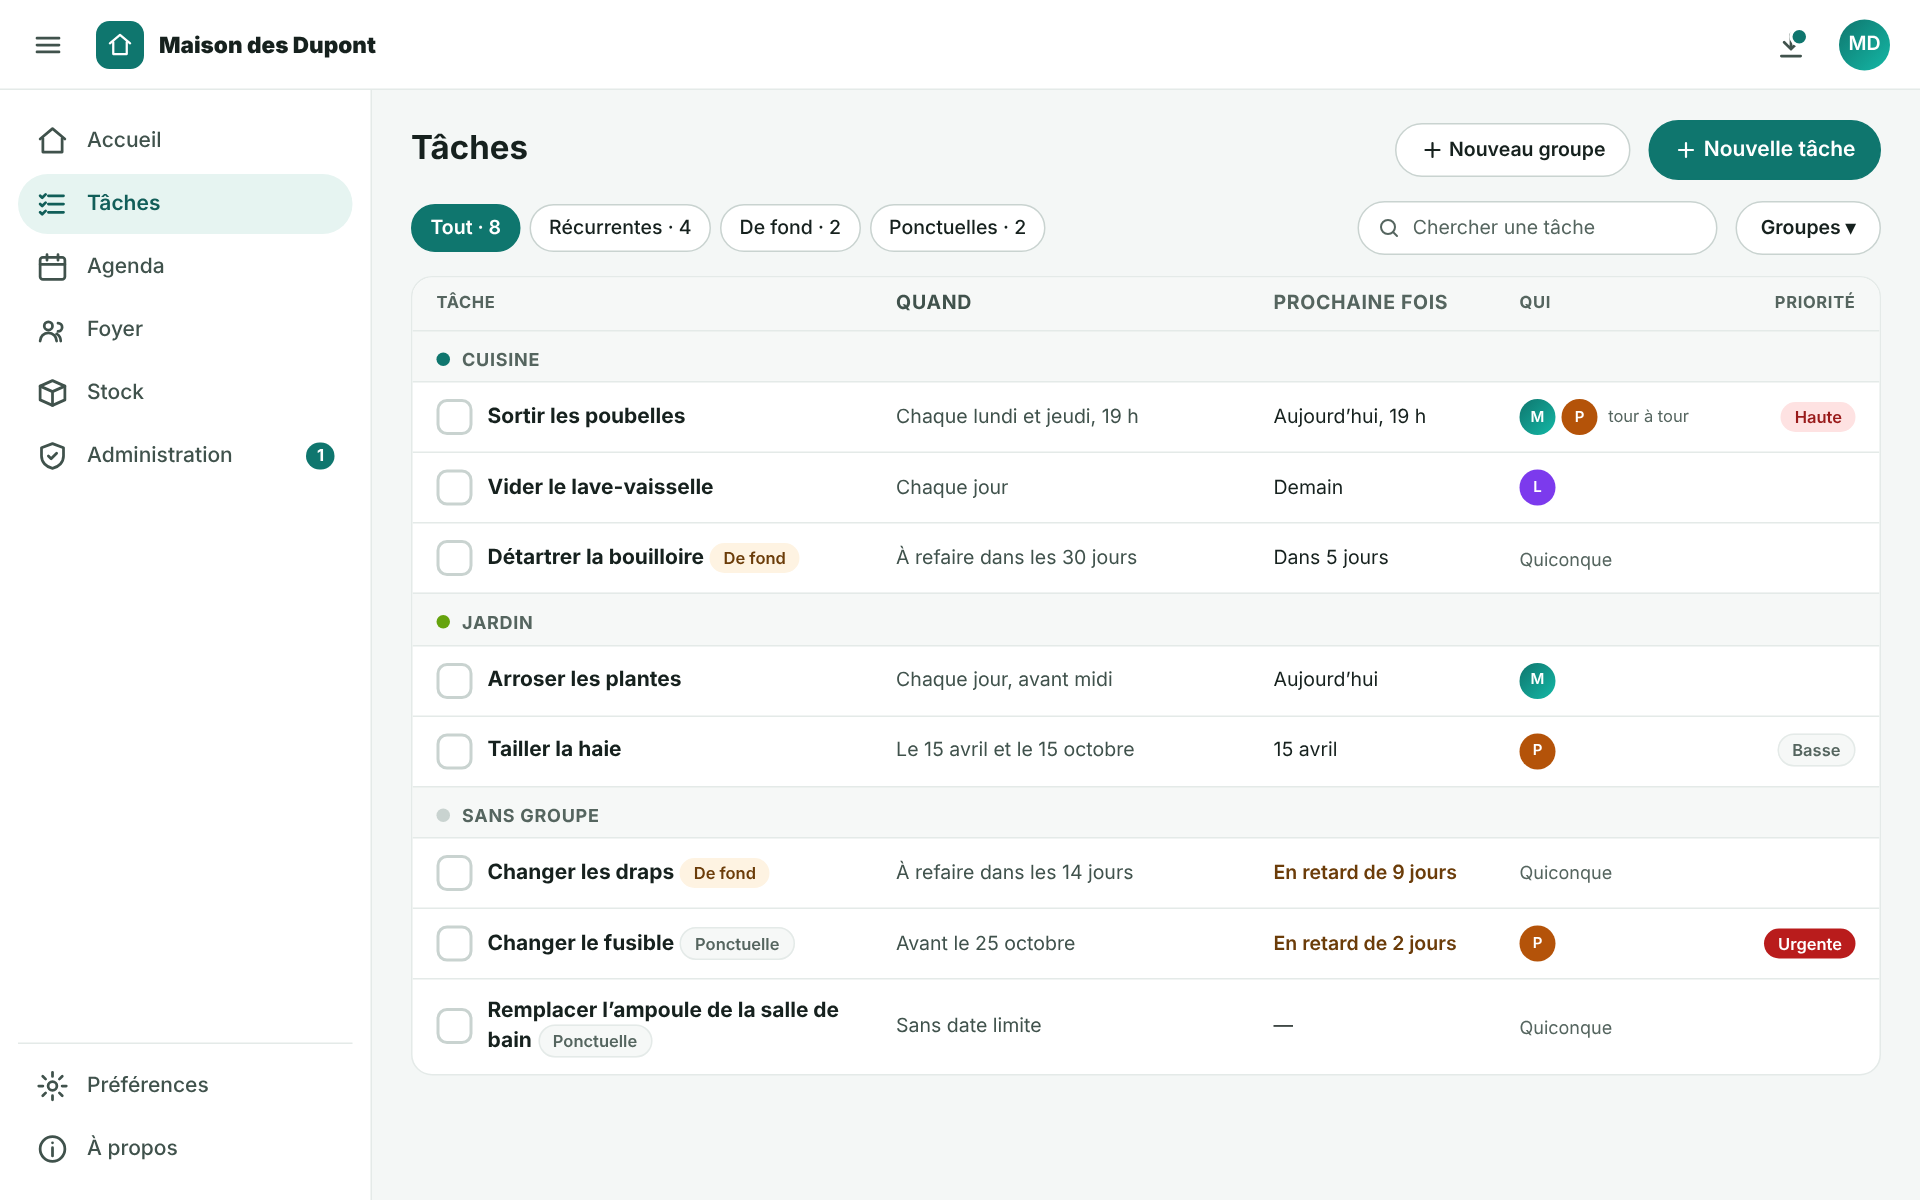
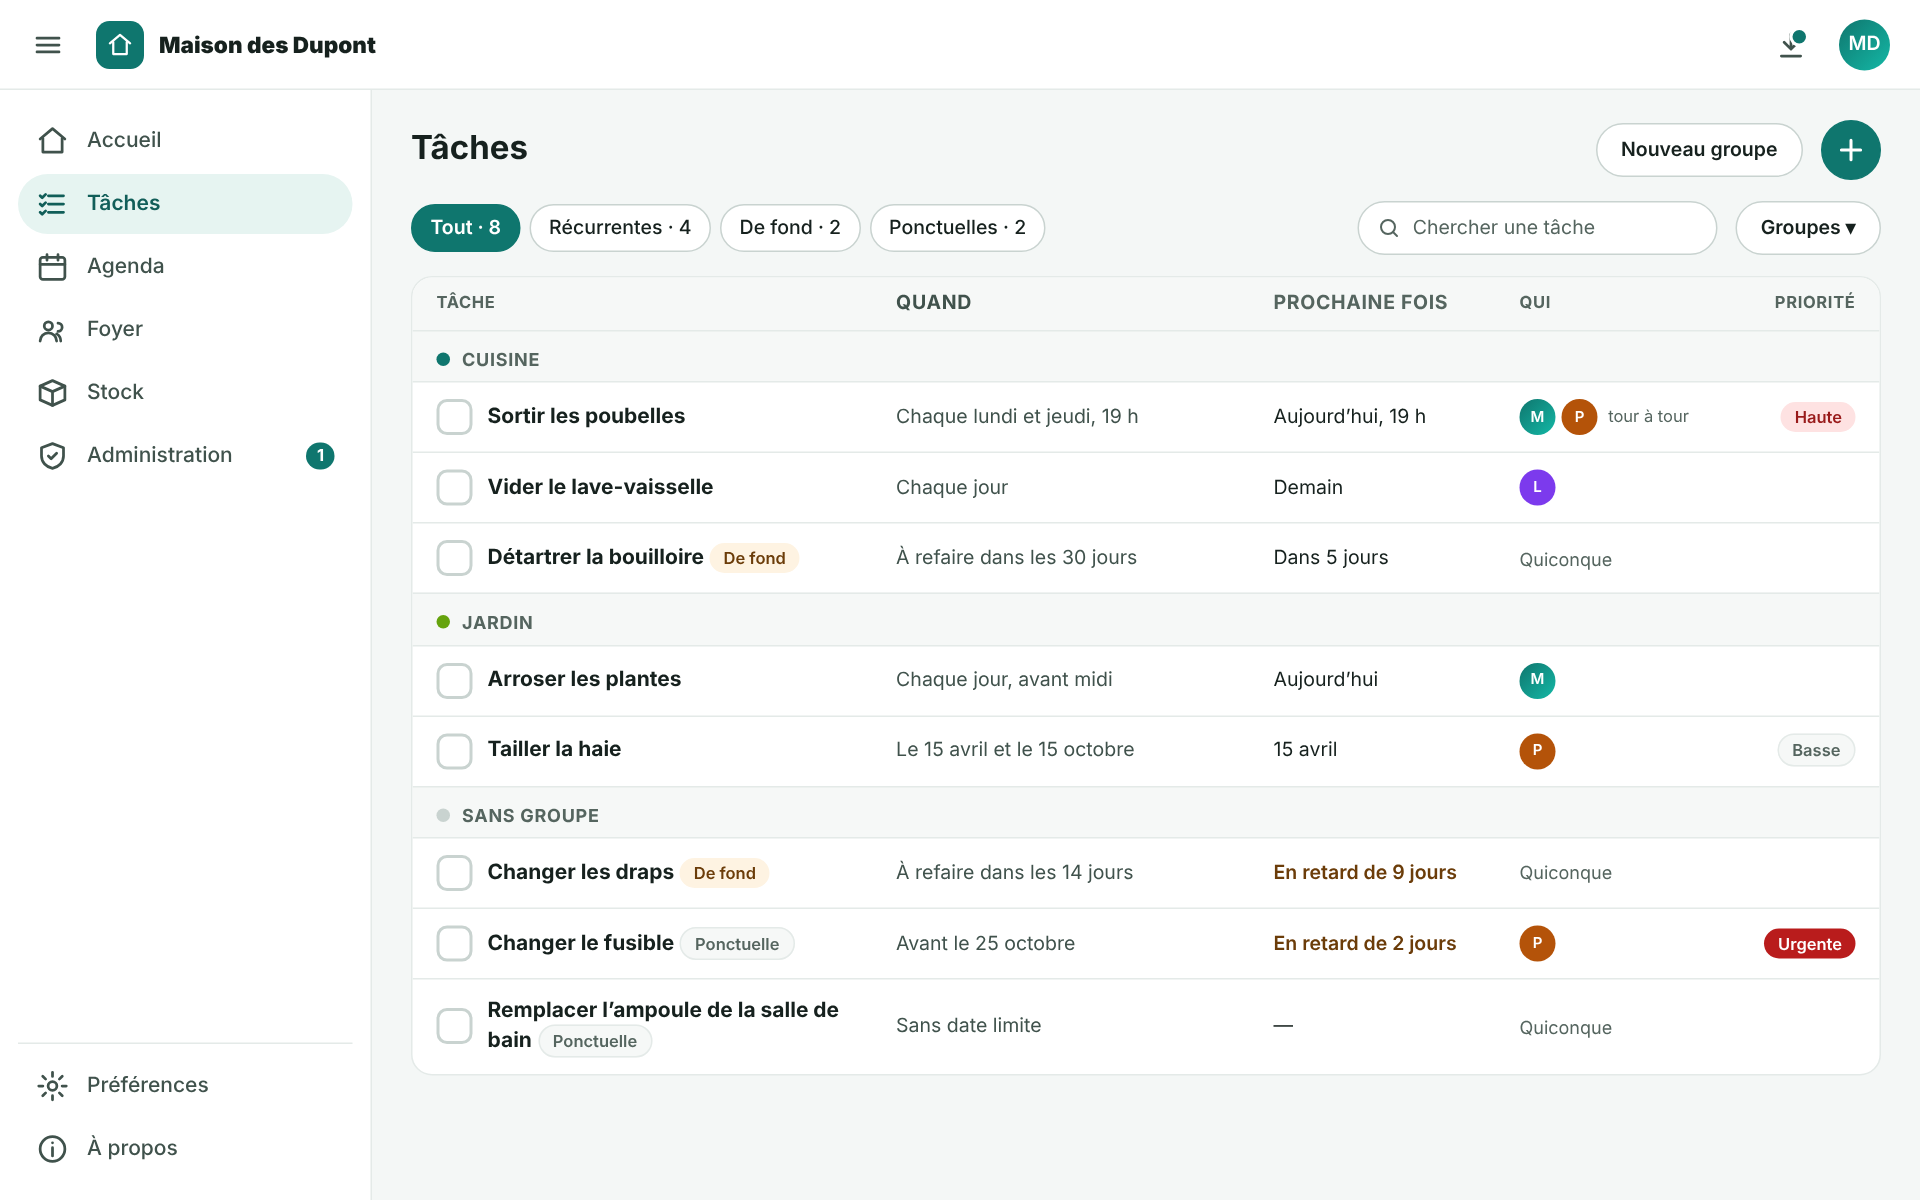
Web : l'ajout est un « + » seul, en tête de page, jamais dans la barre
Un bouton rond « + » sans texte, un par page ; son nom (« Nouvelle
tâche »…) reste dans l'info-bulle et pour les lecteurs d'écran.
« Nouveau statut » passe lui aussi au « + », et « Nouveau groupe »
perd son icône pour qu'il n'y ait qu'un « + » sur la page Tâches.

Claude-Session: https://claude.ai/code/session_01CwM8UZavZyFdh7jkANxEp5

Changed region(s): [[0.75, 0.0925, 0.9688, 0.1542]]

diff --git a/docs/mockups/cadre/38-ajouter-dans-la-page.html b/docs/mockups/cadre/38-ajouter-dans-la-page.html
@@ -12,5 +12,5 @@
   <a class=" point" href="#"><svg viewBox="0 0 24 24" width="22" height="22" fill="none" stroke="currentColor" stroke-width="2" stroke-linecap="round" stroke-linejoin="round"><path d="M12 3 4 6v6c0 4.5 3.4 8 8 9 4.6-1 8-4.5 8-9V6z"/><path d="m9 12 2 2 4-4"/></svg><span>Administration</span><span class="pastille">1</span></a>
   <div class="bas"><a class=" " href="#"><svg viewBox="0 0 24 24" width="22" height="22" fill="none" stroke="currentColor" stroke-width="2" stroke-linecap="round" stroke-linejoin="round"><circle cx="12" cy="12" r="3.2"/><path d="M12 2v3M12 19v3M2 12h3M19 12h3M4.9 4.9l2.1 2.1M17 17l2.1 2.1M4.9 19.1 7 17M17 7l2.1-2.1"/></svg><span>Préférences</span></a><a class=" " href="#"><svg viewBox="0 0 24 24" width="22" height="22" fill="none" stroke="currentColor" stroke-width="2" stroke-linecap="round" stroke-linejoin="round"><circle cx="12" cy="12" r="9"/><path d="M12 11v6M12 7.5h.01"/></svg><span>À propos</span></a></div>
   
-</nav><div class="principal"><main class="contenu" style="gap:14px;padding:20px 26px"><!-- Variante A : plus de bouton « Ajouter » dans la barre du haut. Chaque page a son bouton, à droite de ses filtres, et il dit ce qu'il crée : « Nouvelle tâche » ici, « Nouveau rendez-vous » dans l'Agenda, « Nouvel article » dans le Stock. L'Accueil garde « Ajouter », qui propose tâche ou rendez-vous. --><div class="ligne" style="align-items:center"><h1 style="flex:1;font-size:22px;margin:0">Tâches</h1><span class="bouton"><svg viewBox="0 0 24 24" width="16" height="16" fill="none" stroke="currentColor" stroke-width="2.2" stroke-linecap="round"><path d="M12 5v14M5 12h14"/></svg>&nbsp;Nouveau groupe</span><span class="bouton primaire" style="height:40px;font-size:14px"><svg viewBox="0 0 24 24" width="16" height="16" fill="none" stroke="currentColor" stroke-width="2.2" stroke-linecap="round"><path d="M12 5v14M5 12h14"/></svg>&nbsp;Nouvelle tâche</span></div><div class="ligne"><div class="filtres" style="flex:1"><span class="actif">Tout · 8</span><span>Récurrentes · 4</span><span>De fond · 2</span><span>Ponctuelles · 2</span></div><span class="recherche"><svg viewBox="0 0 24 24" width="16" height="16" fill="none" stroke="currentColor" stroke-width="2" stroke-linecap="round" stroke-linejoin="round"><circle cx="11" cy="11" r="7"/><path d="m20 20-4-4"/></svg>Chercher une tâche</span><span class="bouton">Groupes ▾</span></div><div class="tableau"><div class="rang titres"><div class="c-nom" style="flex:1.6">Tâche</div><div class="c-quand">Quand</div><div class="c-prochaine">Prochaine fois</div><div class="c-qui">Qui</div><div class="c-prio">Priorité</div></div><div class="titre-groupe"><i style="background:#0F766E"></i>Cuisine</div><div class="rang"><div class="c-nom" style="flex:1.6"><div class="case"></div><div style="min-width:0"><b>Sortir les poubelles</b> </div></div><div class="c-quand">Chaque lundi et jeudi, 19 h</div><div class="c-prochaine" style="">Aujourd’hui, 19 h</div><div class="c-qui"><span class="photo" style="width:24px;height:24px;font-size:10px;background:linear-gradient(135deg,#0f766e,#14b8a6)">M</span><span class="photo" style="width:24px;height:24px;font-size:10px;background:#B45309">P</span><span class="rotation">&nbsp;tour à tour</span></div><div class="c-prio"><span class="etiquette haute">Haute</span></div></div><div class="rang"><div class="c-nom" style="flex:1.6"><div class="case"></div><div style="min-width:0"><b>Vider le lave-vaisselle</b> </div></div><div class="c-quand">Chaque jour</div><div class="c-prochaine" style="">Demain</div><div class="c-qui"><span class="photo" style="width:24px;height:24px;font-size:10px;background:#7C3AED">L</span></div><div class="c-prio"></div></div><div class="rang"><div class="c-nom" style="flex:1.6"><div class="case"></div><div style="min-width:0"><b>Détartrer la bouilloire</b> <span class="etiquette fond">De fond</span></div></div><div class="c-quand">À refaire dans les 30 jours</div><div class="c-prochaine" style="">Dans 5 jours</div><div class="c-qui"><span class="muet">Quiconque</span></div><div class="c-prio"></div></div><div class="titre-groupe"><i style="background:#65A30D"></i>Jardin</div><div class="rang"><div class="c-nom" style="flex:1.6"><div class="case"></div><div style="min-width:0"><b>Arroser les plantes</b> </div></div><div class="c-quand">Chaque jour, avant midi</div><div class="c-prochaine" style="">Aujourd’hui</div><div class="c-qui"><span class="photo" style="width:24px;height:24px;font-size:10px;background:linear-gradient(135deg,#0f766e,#14b8a6)">M</span></div><div class="c-prio"></div></div><div class="rang"><div class="c-nom" style="flex:1.6"><div class="case"></div><div style="min-width:0"><b>Tailler la haie</b> </div></div><div class="c-quand">Le 15 avril et le 15 octobre</div><div class="c-prochaine" style="">15 avril</div><div class="c-qui"><span class="photo" style="width:24px;height:24px;font-size:10px;background:#B45309">P</span></div><div class="c-prio"><span class="etiquette basse">Basse</span></div></div><div class="titre-groupe"><i style="background:#c9d3d0"></i>Sans groupe</div><div class="rang"><div class="c-nom" style="flex:1.6"><div class="case"></div><div style="min-width:0"><b>Changer les draps</b> <span class="etiquette fond">De fond</span></div></div><div class="c-quand">À refaire dans les 14 jours</div><div class="c-prochaine alerte" style="font-weight:600">En retard de 9 jours</div><div class="c-qui"><span class="muet">Quiconque</span></div><div class="c-prio"></div></div><div class="rang"><div class="c-nom" style="flex:1.6"><div class="case"></div><div style="min-width:0"><b>Changer le fusible</b> <span class="etiquette neutre">Ponctuelle</span></div></div><div class="c-quand">Avant le 25 octobre</div><div class="c-prochaine alerte" style="font-weight:600">En retard de 2 jours</div><div class="c-qui"><span class="photo" style="width:24px;height:24px;font-size:10px;background:#B45309">P</span></div><div class="c-prio"><span class="etiquette urgente">Urgente</span></div></div><div class="rang"><div class="c-nom" style="flex:1.6"><div class="case"></div><div style="min-width:0"><b>Remplacer l’ampoule de la salle de bain</b> <span class="etiquette neutre">Ponctuelle</span></div></div><div class="c-quand">Sans date limite</div><div class="c-prochaine" style="">—</div><div class="c-qui"><span class="muet">Quiconque</span></div><div class="c-prio"></div></div></div></main></div></div>
+</nav><div class="principal"><main class="contenu" style="gap:14px;padding:20px 26px"><!-- Variante A : plus de bouton « Ajouter » dans la barre du haut. Chaque page a son « + », un seul, à côté de son titre ; son nom (« Nouvelle tâche ») n'est que dans l'info-bulle. --><div class="ligne" style="align-items:center"><h1 style="flex:1;font-size:22px;margin:0">Tâches</h1><span class="bouton">Nouveau groupe</span><span class="bouton primaire" title="Nouvelle tâche" style="width:40px;height:40px;padding:0;border-radius:50%"><svg viewBox="0 0 24 24" width="22" height="22" fill="none" stroke="currentColor" stroke-width="2.2" stroke-linecap="round"><path d="M12 5v14M5 12h14"/></svg></span></div><div class="ligne"><div class="filtres" style="flex:1"><span class="actif">Tout · 8</span><span>Récurrentes · 4</span><span>De fond · 2</span><span>Ponctuelles · 2</span></div><span class="recherche"><svg viewBox="0 0 24 24" width="16" height="16" fill="none" stroke="currentColor" stroke-width="2" stroke-linecap="round" stroke-linejoin="round"><circle cx="11" cy="11" r="7"/><path d="m20 20-4-4"/></svg>Chercher une tâche</span><span class="bouton">Groupes ▾</span></div><div class="tableau"><div class="rang titres"><div class="c-nom" style="flex:1.6">Tâche</div><div class="c-quand">Quand</div><div class="c-prochaine">Prochaine fois</div><div class="c-qui">Qui</div><div class="c-prio">Priorité</div></div><div class="titre-groupe"><i style="background:#0F766E"></i>Cuisine</div><div class="rang"><div class="c-nom" style="flex:1.6"><div class="case"></div><div style="min-width:0"><b>Sortir les poubelles</b> </div></div><div class="c-quand">Chaque lundi et jeudi, 19 h</div><div class="c-prochaine" style="">Aujourd’hui, 19 h</div><div class="c-qui"><span class="photo" style="width:24px;height:24px;font-size:10px;background:linear-gradient(135deg,#0f766e,#14b8a6)">M</span><span class="photo" style="width:24px;height:24px;font-size:10px;background:#B45309">P</span><span class="rotation">&nbsp;tour à tour</span></div><div class="c-prio"><span class="etiquette haute">Haute</span></div></div><div class="rang"><div class="c-nom" style="flex:1.6"><div class="case"></div><div style="min-width:0"><b>Vider le lave-vaisselle</b> </div></div><div class="c-quand">Chaque jour</div><div class="c-prochaine" style="">Demain</div><div class="c-qui"><span class="photo" style="width:24px;height:24px;font-size:10px;background:#7C3AED">L</span></div><div class="c-prio"></div></div><div class="rang"><div class="c-nom" style="flex:1.6"><div class="case"></div><div style="min-width:0"><b>Détartrer la bouilloire</b> <span class="etiquette fond">De fond</span></div></div><div class="c-quand">À refaire dans les 30 jours</div><div class="c-prochaine" style="">Dans 5 jours</div><div class="c-qui"><span class="muet">Quiconque</span></div><div class="c-prio"></div></div><div class="titre-groupe"><i style="background:#65A30D"></i>Jardin</div><div class="rang"><div class="c-nom" style="flex:1.6"><div class="case"></div><div style="min-width:0"><b>Arroser les plantes</b> </div></div><div class="c-quand">Chaque jour, avant midi</div><div class="c-prochaine" style="">Aujourd’hui</div><div class="c-qui"><span class="photo" style="width:24px;height:24px;font-size:10px;background:linear-gradient(135deg,#0f766e,#14b8a6)">M</span></div><div class="c-prio"></div></div><div class="rang"><div class="c-nom" style="flex:1.6"><div class="case"></div><div style="min-width:0"><b>Tailler la haie</b> </div></div><div class="c-quand">Le 15 avril et le 15 octobre</div><div class="c-prochaine" style="">15 avril</div><div class="c-qui"><span class="photo" style="width:24px;height:24px;font-size:10px;background:#B45309">P</span></div><div class="c-prio"><span class="etiquette basse">Basse</span></div></div><div class="titre-groupe"><i style="background:#c9d3d0"></i>Sans groupe</div><div class="rang"><div class="c-nom" style="flex:1.6"><div class="case"></div><div style="min-width:0"><b>Changer les draps</b> <span class="etiquette fond">De fond</span></div></div><div class="c-quand">À refaire dans les 14 jours</div><div class="c-prochaine alerte" style="font-weight:600">En retard de 9 jours</div><div class="c-qui"><span class="muet">Quiconque</span></div><div class="c-prio"></div></div><div class="rang"><div class="c-nom" style="flex:1.6"><div class="case"></div><div style="min-width:0"><b>Changer le fusible</b> <span class="etiquette neutre">Ponctuelle</span></div></div><div class="c-quand">Avant le 25 octobre</div><div class="c-prochaine alerte" style="font-weight:600">En retard de 2 jours</div><div class="c-qui"><span class="photo" style="width:24px;height:24px;font-size:10px;background:#B45309">P</span></div><div class="c-prio"><span class="etiquette urgente">Urgente</span></div></div><div class="rang"><div class="c-nom" style="flex:1.6"><div class="case"></div><div style="min-width:0"><b>Remplacer l’ampoule de la salle de bain</b> <span class="etiquette neutre">Ponctuelle</span></div></div><div class="c-quand">Sans date limite</div><div class="c-prochaine" style="">—</div><div class="c-qui"><span class="muet">Quiconque</span></div><div class="c-prio"></div></div></div></main></div></div>
 </body></html>

diff --git a/scripts/web-e2e.js b/scripts/web-e2e.js
@@ -103,7 +103,8 @@ const verifier = (l, a, o) => { if (a === o) console.log('  ✓ ' + l); else { c
 
   // Ajout rapide : le bouton est dans la page, à côté du titre, plus dans la barre du haut.
   verifier('plus de bouton « Ajouter » dans la barre du haut', 0, await page.locator('header button.ajouter').count());
-  await page.click('.tete-page button.ajouter:has-text("Ajouter")');
+  verifier('le bouton d’ajout est un « + » sans texte', '', (await page.textContent('.tete-page button.ajouter')).trim());
+  await page.click('.tete-page button[aria-label="Ajouter"]');
   await page.fill('form.feuille input:not([type])', 'Remplacer l’ampoule');
   await page.click('form.feuille button:has-text("Avant une date")');
   await page.screenshot({ path: `${S}/5-ajout.png` });
@@ -118,7 +119,7 @@ const verifier = (l, a, o) => { if (a === o) console.log('  ✓ ' + l); else { c
   await page.waitForTimeout(400);
   await page.screenshot({ path: `${S}/7-taches.png` });
   verifier('la liste des tâches montre la règle en clair', true, (await page.textContent('.tableau')).includes('Chaque jour, 11 h'));
-  await page.click('.tete-page button:has-text("Nouvelle tâche")');
+  await page.click('.tete-page button[aria-label="Nouvelle tâche"]');
   await page.waitForSelector('form.panneau');
   await page.fill('form.panneau label:has-text("Titre") input', 'Arroser le potager');
   await page.click('form.panneau button:has-text("Jours")');
@@ -261,7 +262,7 @@ const verifier = (l, a, o) => { if (a === o) console.log('  ✓ ' + l); else { c
   await page.waitForTimeout(500);
   verifier('le mois montre les rendez-vous', true, (await page.textContent('.mois')).includes('Dentiste'));
   await page.screenshot({ path: `${S}/13-agenda.png` });
-  await page.click('button:has-text("Nouveau rendez-vous")');
+  await page.click('.tete-page button[aria-label="Nouveau rendez-vous"]');
   await page.waitForSelector('form.panneau');
   await page.fill('form.panneau label:has-text("Titre") input', 'Vaccin du chat');
   await page.fill('form.panneau label:has-text("Lieu") input', 'Clinique des Lilas');
@@ -334,7 +335,7 @@ const verifier = (l, a, o) => { if (a === o) console.log('  ✓ ' + l); else { c
   await page.screenshot({ path: `${S}/21-icone-perso.png` });
   await page.click('form.panneau button:has-text("Créer le tableau")');
   await page.waitForSelector('.tableau-puce:has-text("Garde-manger")');
-  await page.click('.tete-page button:has-text("Nouvel article")');
+  await page.click('.tete-page button[aria-label="Nouvel article"]');
   await page.fill('form.panneau label:has-text("Nom") input', 'Café en grains');
   await page.fill('form.panneau input[aria-label="Quantité"]', '3');
   await page.check('form.panneau label:has-text("Minimum") input');

diff --git a/web/src/app/Cadre.svelte b/web/src/app/Cadre.svelte
@@ -186,8 +186,14 @@
           <div class="actions">
             {#if barre.actions}{@render barre.actions()}{/if}
             {#if barre.ajouter}
-              <button class="primaire ajouter" onclick={barre.ajouter.faire}>
-                <Icone nom="plus" taille={18} />{barre.ajouter.libelle}
+              <!-- Un « + » seul : son nom n'est que pour l'info-bulle et les lecteurs d'écran. -->
+              <button
+                class="primaire ajouter"
+                aria-label={barre.ajouter.libelle}
+                title={barre.ajouter.libelle}
+                onclick={barre.ajouter.faire}
+              >
+                <Icone nom="plus" taille={22} />
               </button>
             {/if}
           </div>
@@ -345,13 +351,15 @@
     width: 44px;
   }
 
-  .ajouter {
-    min-height: 38px;
-    padding: 0 16px 0 12px;
-    border-radius: 999px;
+  .actions .ajouter {
+    width: 40px;
+    height: 40px;
+    min-height: 40px;
+    padding: 0;
+    border-radius: 50%;
     display: inline-flex;
     align-items: center;
-    gap: 8px;
+    justify-content: center;
   }
 
   .dessous {

diff --git a/web/src/app/admin/Statuts.svelte b/web/src/app/admin/Statuts.svelte
@@ -67,9 +67,9 @@
   });
 
   $effect(() => {
-    barre.actions = boutons;
+    barre.ajouter = { libelle: 'Nouveau statut', faire: () => ouvrir(null) };
     return () => {
-      barre.actions = null;
+      barre.ajouter = null;
     };
   });
 
@@ -153,10 +153,6 @@
     }
   }
 </script>
-
-{#snippet boutons()}
-  <button onclick={() => ouvrir(null)}><Icone nom="plus" taille={16} />Nouveau statut</button>
-{/snippet}
 
 <section class="pile">
   {#if changements.length}

diff --git a/web/src/app/taches/Taches.svelte b/web/src/app/taches/Taches.svelte
@@ -152,7 +152,7 @@
 </script>
 
 {#snippet boutons()}
-  <button onclick={() => (nouveauGroupe = true)}><Icone nom="plus" taille={16} />Nouveau groupe</button>
+  <button onclick={() => (nouveauGroupe = true)}>Nouveau groupe</button>
 {/snippet}
 
 {#if erreur}<div class="encadre alerte">{erreur}</div>{/if}

diff --git a/docs/mockups/cadre/README.md b/docs/mockups/cadre/README.md
@@ -46,7 +46,7 @@ node docs/mockups/cadre/rendre.js   # 1280 × 800 pour l'ordinateur, 390 × 844 
 | `35-tache-details-lire.html` | Les lire : un appui sur un numéro (appeler, copier), une adresse (carte, copier), un code (copié) |
 | `36-admin-copie-automatique.html` | Administration › Réglages du foyer › **Copie automatique** : les règles du foyer, et les essayer |
 | `37-tache-valider.html` | Une tâche ouverte : son état, « C’est fait » ou « Passer cette fois », les dernières fois et par qui |
-| `38-ajouter-dans-la-page.html` | Le bouton d'ajout en tête de chaque page, nommé : « Nouvelle tâche », « Nouveau rendez-vous »… |
+| `38-ajouter-dans-la-page.html` | Le « + » d'ajout en tête de chaque page, à côté de son titre |
 
 ## Ce que ce cadre décide
 
@@ -63,12 +63,11 @@ node docs/mockups/cadre/rendre.js   # 1280 × 800 pour l'ordinateur, 390 × 844 
   qui replie la navigation, le foyer, la mise à jour du serveur quand il y en a une
   (administrateurs) et la photo qui ouvre le menu du compte. La navigation et la page
   sont dessous.
-- **Ajouter se fait dans la page, et dit ce qu'il crée** (maquette
-  `38-ajouter-dans-la-page.html`) : en tête de la page, à côté de son titre,
-  « Nouvelle tâche », « Nouveau rendez-vous », « Nouvel article » ; l'accueil garde
-  « Ajouter » (tâche ou rendez-vous, en deux champs). Un seul « Ajouter » en haut à
-  droite de l'écran changeait de sens d'une page à l'autre. Pas de bouton flottant
-  sur téléphone : le même bouton, en tête de la page.
+- **Ajouter, c'est un « + » dans la page** (maquette `38-ajouter-dans-la-page.html`) :
+  jamais dans la barre d'outils, un seul par page, en tête de la page à côté de son
+  titre, sans texte — son nom (« Nouvelle tâche », « Nouveau rendez-vous »…) n'est que
+  dans l'info-bulle. Sur l'accueil, il ouvre l'ajout rapide (tâche ou rendez-vous).
+  Pas de bouton flottant sur téléphone : le même « + », en tête de la page.
 - **Sur téléphone, la page se comporte comme l'app**, pour qu'on n'ait pas deux
   façons de faire la même chose.
 

diff --git a/docs/web-ui.md b/docs/web-ui.md
@@ -51,7 +51,7 @@ les N jours, jours de la semaine, dates du mois ou de l'année, toutes les N sem
 N mois — avec une heure ou toute la journée, et un **premier jour** qui peut être dans
 le futur), de fond (à refaire dans les N jours) ou ponctuelle (avec ou sans date
 limite). L'aperçu des trois prochaines fois, avec qui s'en charge à tour de rôle, suit
-la saisie. « Nouvelle tâche », en tête de la page, ouvre la fiche complète.
+la saisie. Le « + », en tête de la page, ouvre la fiche complète.
 
 **Valider une tâche.** Ouvrir une tâche, depuis Tâches ou l'Accueil, montre d'abord
 où elle en est — à faire aujourd'hui et pour qui, en retard, faite (à quelle heure et
